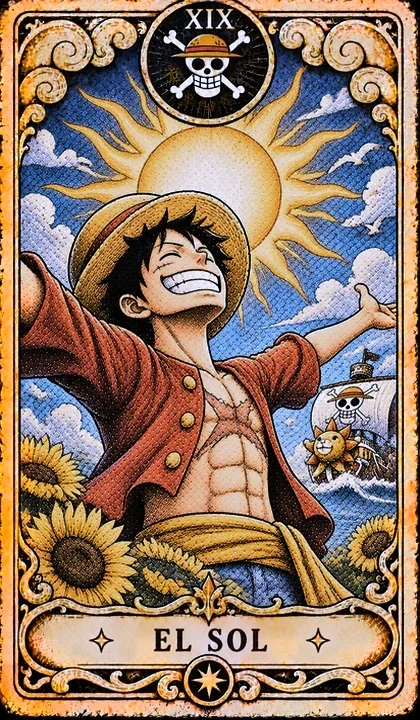
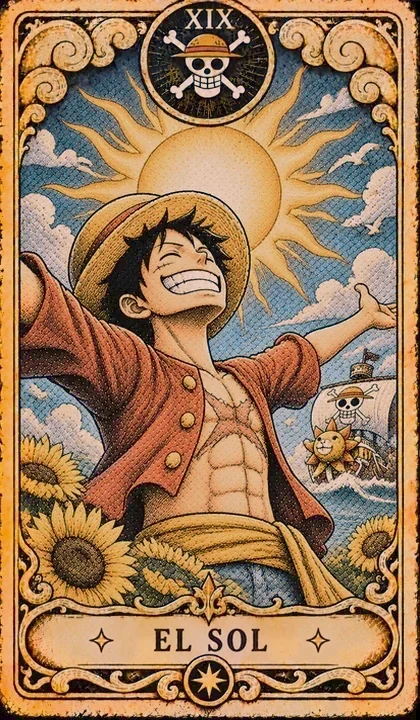
Arcanos Mayores: iguala contraste, negros y calidez a los Menores (curva por canal)

diff --git a/app.js b/app.js
@@ -137,7 +137,7 @@
     estado.orden = a;
   }
   /* Si a un mazo personalizado le falta la imagen de una carta (por ejemplo en miniaturas de temas), se usa la del mazo clásico para no mostrar un hueco. */
-  const src = (mazo, i) => { const f = !cartaDisponible(i, mazo); const m = f ? 'rws' : mazo; return `${rutaMazo(m)}/${String(i).padStart(2, '0')}.webp${m === 'rws' ? '?v=2' : m === 'mn1' ? '?v=5' : ''}`; };
+  const src = (mazo, i) => { const f = !cartaDisponible(i, mazo); const m = f ? 'rws' : mazo; return `${rutaMazo(m)}/${String(i).padStart(2, '0')}.webp${m === 'rws' ? '?v=2' : m === 'mn1' ? '?v=6' : ''}`; };
   const cara = (i, mazo, lazy = true) =>
     `<img src="${src(mazo, i)}" alt="${esc(CARTAS[i].nombre)}" ${lazy ? 'loading="lazy"' : ''} decoding="async" draggable="false">`;
   const reverso = (mazo) => (mazo === 'sola' ? reversoDibujado() : `<img src="${rutaMazo(mazo)}/back.webp" alt="" decoding="async" draggable="false">`);

diff --git a/index.html b/index.html
@@ -316,6 +316,6 @@
 <script src="cards.js?v=35"></script>
 <script src="menores.js?v=35"></script>
 <script src="sonido.js?v=3"></script>
-<script src="app.js?v=75"></script>
+<script src="app.js?v=76"></script>
 </body>
 </html>
